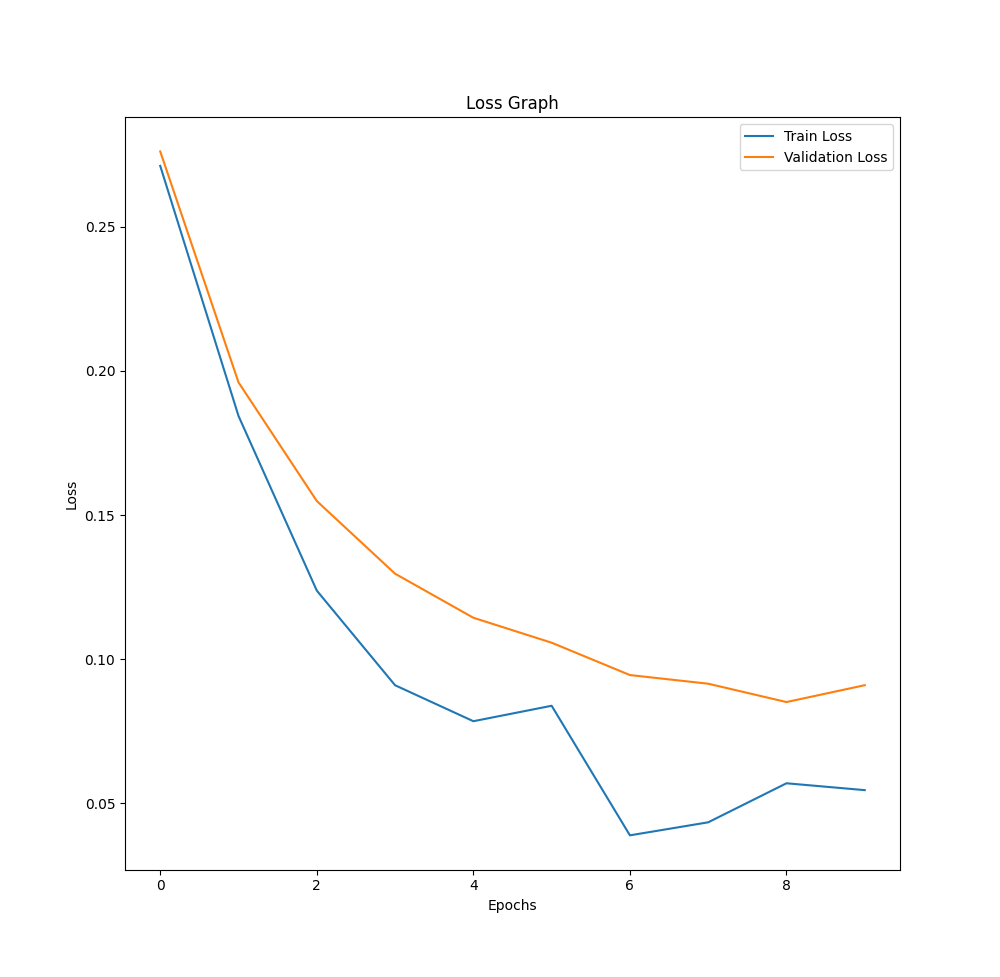
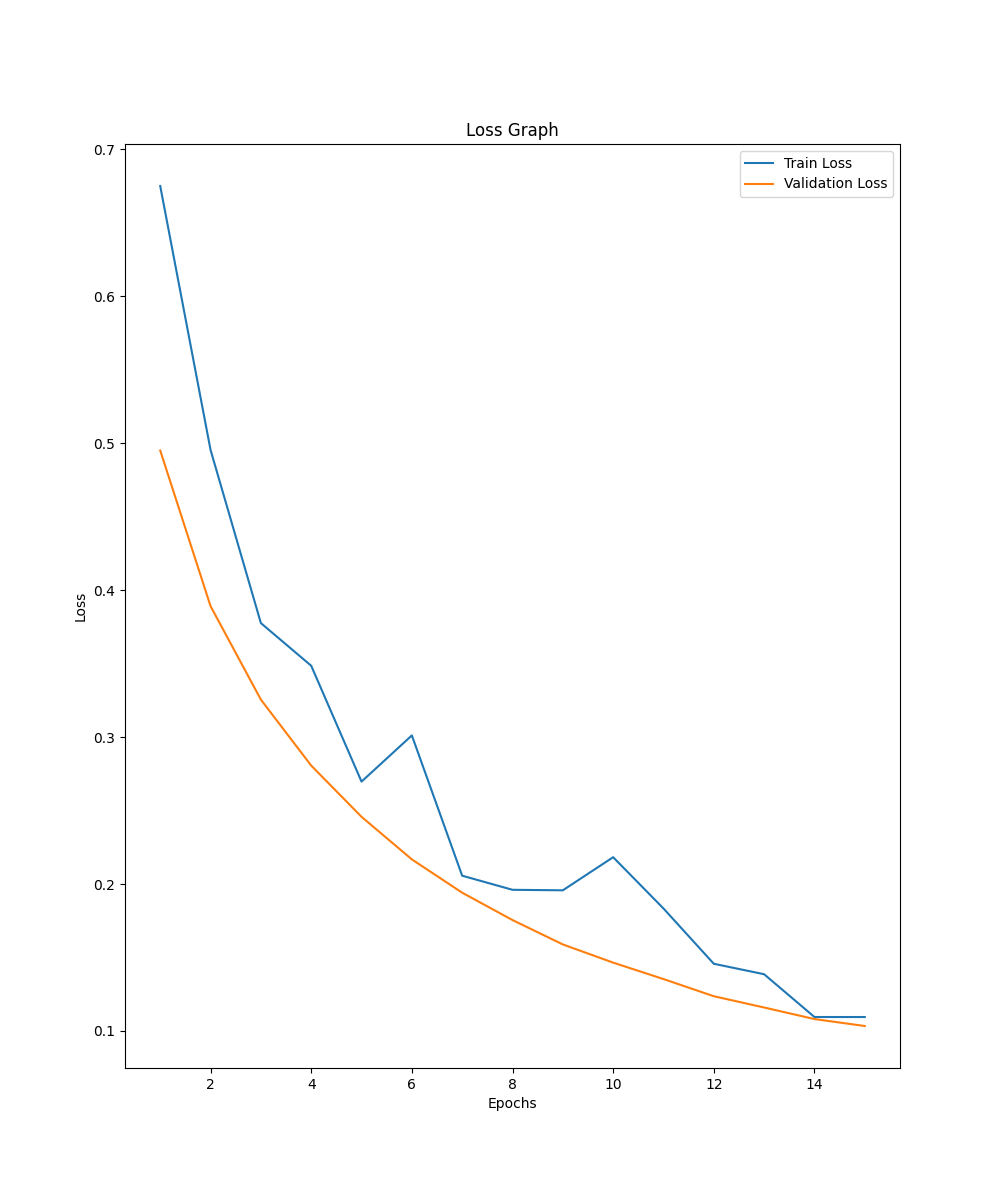
Modified loss plot

diff --git a/main.py b/main.py
@@ -100,12 +100,13 @@ class MNISTClassification:
     def display(self) -> None:
         
         plt.figure(figsize = (10, 12))
-        plt.plot(self.train_loss_graph)
-        plt.plot(self.val_loss_graph)
+        plt.plot(range(1, self.epochs + 1), self.train_loss_graph)
+        plt.plot(range(1, self.epochs + 1), self.val_loss_graph)
         plt.title("Loss Graph")
         plt.xlabel("Epochs")
         plt.ylabel("Loss")
         plt.legend(["Train Loss", "Validation Loss"])
+        plt.savefig("Results/train_val_loss_plot.png")
         plt.show()
 
 # The main function call